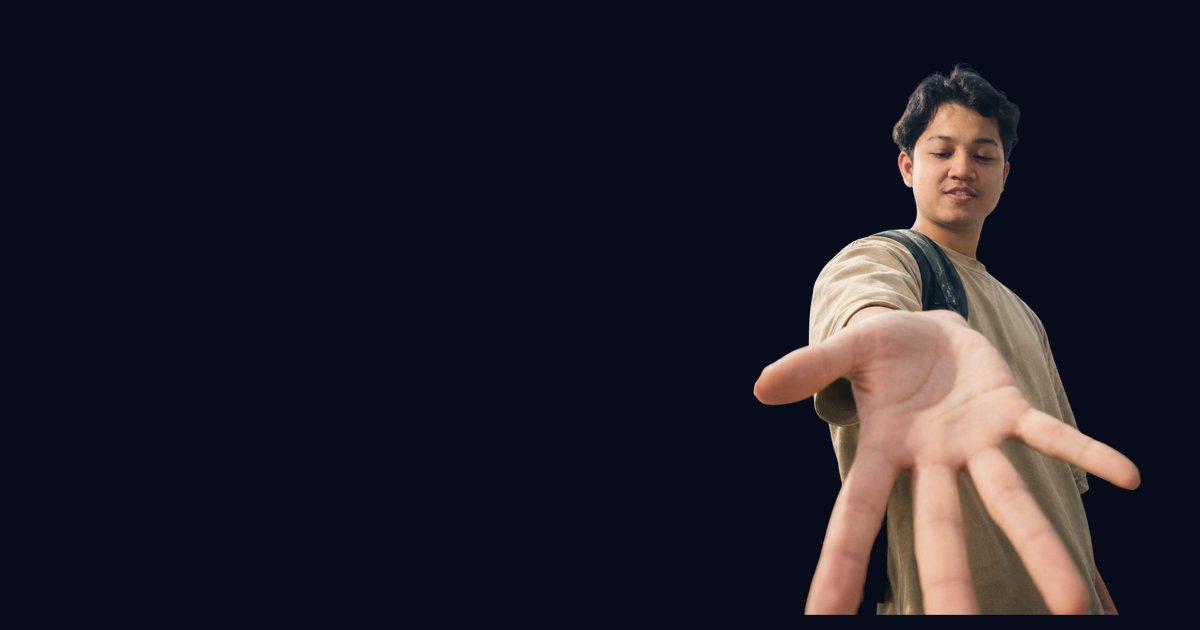
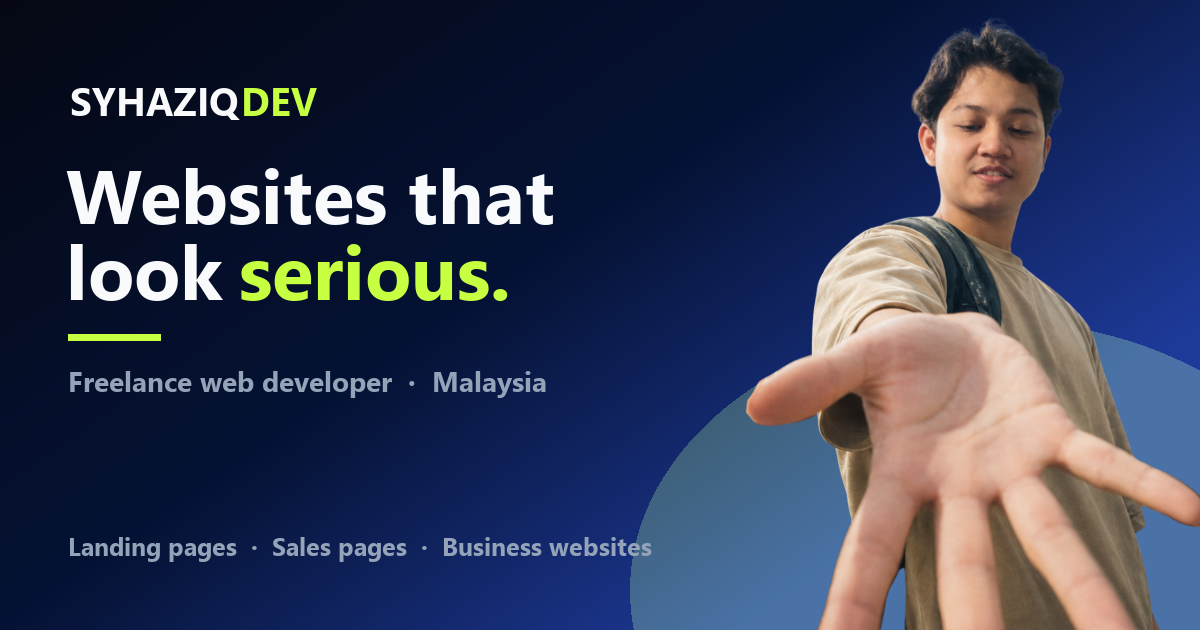
Fasa 4 (start): branded OG image, tailwind.css gap fix, consistent nav
- og-image.png: regenerated from the hero cutout into a proper social
  card — dark hero gradient, portrait, SYHAZIQDEV lockup, "Websites
  that look serious." headline and service line. Replaces the version
  that had an empty left half. Same 1200x630, same path.
- assets/tailwind.css: append the utility classes added since the last
  Tailwind build (mt-16, pt-14, mt-[22px], text-white/75, /80, /90) so
  work.html and about.html pick them up too; drop the now-duplicate
  helpers from index.html's <style>. Documented the prebuilt-subset
  constraint in PRODUCT.md.
- Nav: homepage Work/About links scroll to their on-page teasers
  (#work / #about) instead of jumping to the dedicated pages, so every
  nav item behaves the same. The teaser CTAs and footer still link out
  to work.html / about.html.

Claude-Session: https://claude.ai/code/session_01LuE8z3DoG9okSdreEZLBrv

diff --git a/assets/tailwind.css b/assets/tailwind.css
@@ -1,1 +1,8 @@
 *,:after,:before{--tw-border-spacing-x:0;--tw-border-spacing-y:0;--tw-translate-x:0;--tw-translate-y:0;--tw-rotate:0;--tw-skew-x:0;--tw-skew-y:0;--tw-scale-x:1;--tw-scale-y:1;--tw-pan-x: ;--tw-pan-y: ;--tw-pinch-zoom: ;--tw-scroll-snap-strictness:proximity;--tw-gradient-from-position: ;--tw-gradient-via-position: ;--tw-gradient-to-position: ;--tw-ordinal: ;--tw-slashed-zero: ;--tw-numeric-figure: ;--tw-numeric-spacing: ;--tw-numeric-fraction: ;--tw-ring-inset: ;--tw-ring-offset-width:0px;--tw-ring-offset-color:#fff;--tw-ring-color:rgba(59,130,246,.5);--tw-ring-offset-shadow:0 0 #0000;--tw-ring-shadow:0 0 #0000;--tw-shadow:0 0 #0000;--tw-shadow-colored:0 0 #0000;--tw-blur: ;--tw-brightness: ;--tw-contrast: ;--tw-grayscale: ;--tw-hue-rotate: ;--tw-invert: ;--tw-saturate: ;--tw-sepia: ;--tw-drop-shadow: ;--tw-backdrop-blur: ;--tw-backdrop-brightness: ;--tw-backdrop-contrast: ;--tw-backdrop-grayscale: ;--tw-backdrop-hue-rotate: ;--tw-backdrop-invert: ;--tw-backdrop-opacity: ;--tw-backdrop-saturate: ;--tw-backdrop-sepia: ;--tw-contain-size: ;--tw-contain-layout: ;--tw-contain-paint: ;--tw-contain-style: }::backdrop{--tw-border-spacing-x:0;--tw-border-spacing-y:0;--tw-translate-x:0;--tw-translate-y:0;--tw-rotate:0;--tw-skew-x:0;--tw-skew-y:0;--tw-scale-x:1;--tw-scale-y:1;--tw-pan-x: ;--tw-pan-y: ;--tw-pinch-zoom: ;--tw-scroll-snap-strictness:proximity;--tw-gradient-from-position: ;--tw-gradient-via-position: ;--tw-gradient-to-position: ;--tw-ordinal: ;--tw-slashed-zero: ;--tw-numeric-figure: ;--tw-numeric-spacing: ;--tw-numeric-fraction: ;--tw-ring-inset: ;--tw-ring-offset-width:0px;--tw-ring-offset-color:#fff;--tw-ring-color:rgba(59,130,246,.5);--tw-ring-offset-shadow:0 0 #0000;--tw-ring-shadow:0 0 #0000;--tw-shadow:0 0 #0000;--tw-shadow-colored:0 0 #0000;--tw-blur: ;--tw-brightness: ;--tw-contrast: ;--tw-grayscale: ;--tw-hue-rotate: ;--tw-invert: ;--tw-saturate: ;--tw-sepia: ;--tw-drop-shadow: ;--tw-backdrop-blur: ;--tw-backdrop-brightness: ;--tw-backdrop-contrast: ;--tw-backdrop-grayscale: ;--tw-backdrop-hue-rotate: ;--tw-backdrop-invert: ;--tw-backdrop-opacity: ;--tw-backdrop-saturate: ;--tw-backdrop-sepia: ;--tw-contain-size: ;--tw-contain-layout: ;--tw-contain-paint: ;--tw-contain-style: }/*! tailwindcss v3.4.17 | MIT License | https://tailwindcss.com*/*,:after,:before{box-sizing:border-box;border:0 solid #e5e7eb}:after,:before{--tw-content:""}:host,html{line-height:1.5;-webkit-text-size-adjust:100%;-moz-tab-size:4;-o-tab-size:4;tab-size:4;font-family:ui-sans-serif,system-ui,sans-serif,Apple Color Emoji,Segoe UI Emoji,Segoe UI Symbol,Noto Color Emoji;font-feature-settings:normal;font-variation-settings:normal;-webkit-tap-highlight-color:transparent}body{margin:0;line-height:inherit}hr{height:0;color:inherit;border-top-width:1px}abbr:where([title]){-webkit-text-decoration:underline dotted;text-decoration:underline dotted}h1,h2,h3,h4,h5,h6{font-size:inherit;font-weight:inherit}a{color:inherit;text-decoration:inherit}b,strong{font-weight:bolder}code,kbd,pre,samp{font-family:ui-monospace,SFMono-Regular,Menlo,Monaco,Consolas,Liberation Mono,Courier New,monospace;font-feature-settings:normal;font-variation-settings:normal;font-size:1em}small{font-size:80%}sub,sup{font-size:75%;line-height:0;position:relative;vertical-align:baseline}sub{bottom:-.25em}sup{top:-.5em}table{text-indent:0;border-color:inherit;border-collapse:collapse}button,input,optgroup,select,textarea{font-family:inherit;font-feature-settings:inherit;font-variation-settings:inherit;font-size:100%;font-weight:inherit;line-height:inherit;letter-spacing:inherit;color:inherit;margin:0;padding:0}button,select{text-transform:none}button,input:where([type=button]),input:where([type=reset]),input:where([type=submit]){-webkit-appearance:button;background-color:transparent;background-image:none}:-moz-focusring{outline:auto}:-moz-ui-invalid{box-shadow:none}progress{vertical-align:baseline}::-webkit-inner-spin-button,::-webkit-outer-spin-button{height:auto}[type=search]{-webkit-appearance:textfield;outline-offset:-2px}::-webkit-search-decoration{-webkit-appearance:none}::-webkit-file-upload-button{-webkit-appearance:button;font:inherit}summary{display:list-item}blockquote,dd,dl,figure,h1,h2,h3,h4,h5,h6,hr,p,pre{margin:0}fieldset{margin:0}fieldset,legend{padding:0}menu,ol,ul{list-style:none;margin:0;padding:0}dialog{padding:0}textarea{resize:vertical}input::-moz-placeholder,textarea::-moz-placeholder{opacity:1;color:#9ca3af}input::placeholder,textarea::placeholder{opacity:1;color:#9ca3af}[role=button],button{cursor:pointer}:disabled{cursor:default}audio,canvas,embed,iframe,img,object,svg,video{display:block;vertical-align:middle}img,video{max-width:100%;height:auto}[hidden]:where(:not([hidden=until-found])){display:none}.sr-only{position:absolute;width:1px;height:1px;padding:0;margin:-1px;overflow:hidden;clip:rect(0,0,0,0);white-space:nowrap;border-width:0}.fixed{position:fixed}.absolute{position:absolute}.relative{position:relative}.inset-0{inset:0}.left-1\/3{left:33.333333%}.top-0{top:0}.z-10{z-index:10}.mx-auto{margin-left:auto;margin-right:auto}.mb-2{margin-bottom:.5rem}.mb-4{margin-bottom:1rem}.mb-5{margin-bottom:1.25rem}.mb-6{margin-bottom:1.5rem}.mt-1{margin-top:.25rem}.mt-14{margin-top:3.5rem}.mt-2{margin-top:.5rem}.mt-20{margin-top:5rem}.mt-3{margin-top:.75rem}.mt-4{margin-top:1rem}.mt-5{margin-top:1.25rem}.mt-6{margin-top:1.5rem}.mt-7{margin-top:1.75rem}.mt-8{margin-top:2rem}.mt-9{margin-top:2.25rem}.mt-\[18px\]{margin-top:18px}.block{display:block}.flex{display:flex}.grid{display:grid}.hidden{display:none}.h-10{height:2.5rem}.h-12{height:3rem}.h-4{height:1rem}.h-\[500px\]{height:500px}.min-h-\[130px\]{min-height:130px}.min-h-screen{min-height:100vh}.w-10{width:2.5rem}.w-12{width:3rem}.w-4{width:1rem}.w-\[500px\]{width:500px}.w-full{width:100%}.max-w-2xl{max-width:42rem}.max-w-3xl{max-width:48rem}.max-w-xl{max-width:36rem}.flex-col{flex-direction:column}.flex-wrap{flex-wrap:wrap}.items-end{align-items:flex-end}.items-center{align-items:center}.justify-center{justify-content:center}.justify-between{justify-content:space-between}.gap-14{gap:3.5rem}.gap-2{gap:.5rem}.gap-3{gap:.75rem}.gap-4{gap:1rem}.gap-5{gap:1.25rem}.gap-7{gap:1.75rem}.gap-\[18px\]{gap:18px}.gap-x-10{-moz-column-gap:2.5rem;column-gap:2.5rem}.gap-y-4{row-gap:1rem}.space-y-4>:not([hidden])~:not([hidden]){--tw-space-y-reverse:0;margin-top:calc(1rem*(1 - var(--tw-space-y-reverse)));margin-bottom:calc(1rem*var(--tw-space-y-reverse))}.overflow-hidden{overflow:hidden}.scroll-smooth{scroll-behavior:smooth}.rounded-full{border-radius:9999px}.border{border-width:1px}.border-b{border-bottom-width:1px}.border-t{border-top-width:1px}.border-slate-200{--tw-border-opacity:1;border-color:rgb(226 232 240/var(--tw-border-opacity,1))}.border-white\/10{border-color:hsla(0,0%,100%,.1)}.border-white\/15{border-color:hsla(0,0%,100%,.15)}.bg-indigo-700{--tw-bg-opacity:1;background-color:rgb(67 56 202/var(--tw-bg-opacity,1))}.bg-slate-50{--tw-bg-opacity:1;background-color:rgb(248 250 252/var(--tw-bg-opacity,1))}.bg-slate-900{--tw-bg-opacity:1;background-color:rgb(15 23 42/var(--tw-bg-opacity,1))}.bg-slate-950{--tw-bg-opacity:1;background-color:rgb(2 6 23/var(--tw-bg-opacity,1))}.bg-white{--tw-bg-opacity:1;background-color:rgb(255 255 255/var(--tw-bg-opacity,1))}.object-contain{-o-object-fit:contain;object-fit:contain}.p-6{padding:1.5rem}.p-8{padding:2rem}.\!px-4{padding-left:1rem!important;padding-right:1rem!important}.\!py-2\.5{padding-top:.625rem!important;padding-bottom:.625rem!important}.px-3{padding-left:.75rem;padding-right:.75rem}.py-1\.5{padding-top:.375rem;padding-bottom:.375rem}.py-24{padding-top:6rem;padding-bottom:6rem}.py-28{padding-top:7rem;padding-bottom:7rem}.py-4{padding-top:1rem;padding-bottom:1rem}.py-7{padding-top:1.75rem;padding-bottom:1.75rem}.py-8{padding-top:2rem;padding-bottom:2rem}.\!pb-0{padding-bottom:0!important}.pb-16{padding-bottom:4rem}.pt-28{padding-top:7rem}.pt-4{padding-top:1rem}.pt-6{padding-top:1.5rem}.text-center{text-align:center}.text-2xl{font-size:1.5rem;line-height:2rem}.text-3xl{font-size:1.875rem;line-height:2.25rem}.text-4xl{font-size:2.25rem;line-height:2.5rem}.text-base{font-size:1rem;line-height:1.5rem}.text-lg{font-size:1.125rem;line-height:1.75rem}.text-sm{font-size:.875rem;line-height:1.25rem}.text-xs{font-size:.75rem;line-height:1rem}.font-bold{font-weight:700}.font-extrabold{font-weight:800}.font-semibold{font-weight:600}.uppercase{text-transform:uppercase}.leading-5{line-height:1.25rem}.leading-6{line-height:1.5rem}.leading-7{line-height:1.75rem}.leading-8{line-height:2rem}.tracking-\[\.12em\]{letter-spacing:.12em}.tracking-\[\.14em\]{letter-spacing:.14em}.tracking-\[\.15em\]{letter-spacing:.15em}.tracking-\[\.2em\]{letter-spacing:.2em}.text-slate-400{--tw-text-opacity:1;color:rgb(148 163 184/var(--tw-text-opacity,1))}.text-slate-500{--tw-text-opacity:1;color:rgb(100 116 139/var(--tw-text-opacity,1))}.text-slate-700{--tw-text-opacity:1;color:rgb(51 65 85/var(--tw-text-opacity,1))}.text-slate-900{--tw-text-opacity:1;color:rgb(15 23 42/var(--tw-text-opacity,1))}.text-white{--tw-text-opacity:1;color:rgb(255 255 255/var(--tw-text-opacity,1))}.text-white\/30{color:hsla(0,0%,100%,.3)}.text-white\/35{color:hsla(0,0%,100%,.35)}.text-white\/40{color:hsla(0,0%,100%,.4)}.text-white\/45{color:hsla(0,0%,100%,.45)}.text-white\/50{color:hsla(0,0%,100%,.5)}.text-white\/55{color:hsla(0,0%,100%,.55)}.text-white\/60{color:hsla(0,0%,100%,.6)}.text-white\/70{color:hsla(0,0%,100%,.7)}.blur-3xl{--tw-blur:blur(64px);filter:var(--tw-blur) var(--tw-brightness) var(--tw-contrast) var(--tw-grayscale) var(--tw-hue-rotate) var(--tw-invert) var(--tw-saturate) var(--tw-sepia) var(--tw-drop-shadow)}.transition{transition-property:color,background-color,border-color,text-decoration-color,fill,stroke,opacity,box-shadow,transform,filter,-webkit-backdrop-filter;transition-property:color,background-color,border-color,text-decoration-color,fill,stroke,opacity,box-shadow,transform,filter,backdrop-filter;transition-property:color,background-color,border-color,text-decoration-color,fill,stroke,opacity,box-shadow,transform,filter,backdrop-filter,-webkit-backdrop-filter;transition-timing-function:cubic-bezier(.4,0,.2,1);transition-duration:.15s}.hover\:text-white:hover{--tw-text-opacity:1;color:rgb(255 255 255/var(--tw-text-opacity,1))}@media (min-width:768px){.md\:block{display:block}.md\:grid-cols-2{grid-template-columns:repeat(2,minmax(0,1fr))}.md\:grid-cols-\[\.7fr_1\.3fr\]{grid-template-columns:.7fr 1.3fr}.md\:flex-row{flex-direction:row}.md\:p-8{padding:2rem}.md\:text-xl{font-size:1.25rem;line-height:1.75rem}}
+/* --- utilities added after the last Tailwind build (see PRODUCT.md) --- */
+.mt-16{margin-top:4rem}
+.mt-\[22px\]{margin-top:22px}
+.pt-14{padding-top:3.5rem}
+.text-white\/75{--tw-text-opacity:1;color:rgba(255,255,255,.75)}
+.text-white\/80{--tw-text-opacity:1;color:rgba(255,255,255,.8)}
+.text-white\/90{--tw-text-opacity:1;color:rgba(255,255,255,.9)}

diff --git a/index.html b/index.html
@@ -132,10 +132,6 @@
     .project-card:after{content:"";position:absolute;inset:0;background:linear-gradient(to top,rgba(0,0,0,.88),rgba(0,0,0,.12) 65%,transparent)}
     .project-copy{position:absolute;left:24px;right:24px;bottom:23px;z-index:3}
     .project-badge{position:absolute;top:17px;left:17px;z-index:4;background:rgba(7,11,26,.82);border:1px solid rgba(255,255,255,.16);color:#fff;padding:7px 13px;border-radius:5px;font-size:.7rem;font-weight:800;text-transform:uppercase;letter-spacing:.1em;line-height:1}
-    /* opacity helpers — the prebuilt tailwind subset only ships /10-/60 and /70 */
-    .text-white\/75{color:rgba(255,255,255,.75)}
-    .text-white\/80{color:rgba(255,255,255,.8)}
-    .text-white\/90{color:rgba(255,255,255,.9)}
     /* WORK — primary web/product cards (screenshot-forward) */
     .work-grid{display:grid;grid-template-columns:1fr 1fr;gap:22px}
     .work-card{display:flex;flex-direction:column;background:#0c1226;border:1px solid rgba(255,255,255,.09);overflow:hidden;transition:transform .2s ease,border-color .2s ease}
@@ -281,8 +277,8 @@
 
       <div class="nav-links flex gap-7 text-sm font-semibold">
         <a href="#services" class="text-white/75 hover:text-white">Services</a>
-        <a href="work.html" class="text-white/75 hover:text-white">Work</a>
-        <a href="about.html" class="text-white/75 hover:text-white">About</a>
+        <a href="#work" class="text-white/75 hover:text-white">Work</a>
+        <a href="#about" class="text-white/75 hover:text-white">About</a>
         <a href="#experience" class="text-white/75 hover:text-white">Experience</a>
         <a href="#kadme" class="text-white/75 hover:text-white">KadMeHQ</a>
       </div>
@@ -300,8 +296,8 @@
     <div id="mobileMenu" class="mobile-menu">
       <div class="mobile-menu-inner">
         <a href="#services" class="mobile-menu-link">Services</a>
-        <a href="work.html" class="mobile-menu-link">Work</a>
-        <a href="about.html" class="mobile-menu-link">About</a>
+        <a href="#work" class="mobile-menu-link">Work</a>
+        <a href="#about" class="mobile-menu-link">About</a>
         <a href="#experience" class="mobile-menu-link">Experience</a>
         <a href="#kadme" class="mobile-menu-link">KadMeHQ</a>
         <a href="#contact" class="mobile-menu-cta">Request a Quote</a>
@@ -325,7 +321,7 @@
           <a href="#contact" class="btn-primary">
             Request a Quote <i data-feather="arrow-up-right" class="w-4 h-4"></i>
           </a>
-          <a href="work.html" class="btn-outline">See My Work</a>
+          <a href="#work" class="btn-outline">See My Work</a>
         </div>
 
         <p class="mt-5 text-sm text-white/80">

diff --git a/PRODUCT.md b/PRODUCT.md
@@ -25,6 +25,11 @@ The site is deployed to Cloudflare Pages from GitHub for `haziqbuilds.com`. Cont
 ## Capabilities and Constraints
 
 - Static hand-written HTML/CSS/JS only for now; no build step.
+- `assets/tailwind.css` is a pre-generated Tailwind 3.4 subset, not rebuilt on
+  deploy. Only the opacity steps `/10`-`/60` and `/70` exist for `text-white`;
+  new utility classes must be added by hand to the end of that file (see the
+  "utilities added after the last Tailwind build" block) or the whole file
+  regenerated. Page-specific CSS lives in each page's `<style>` block.
 - Official accent color is lime `#c7ff41`.
 - KadMeHQ / KadMe is Haziq's own product.
 - Tafaqquh and FoTLI are Oxford EduVision work and must be credited that way.
